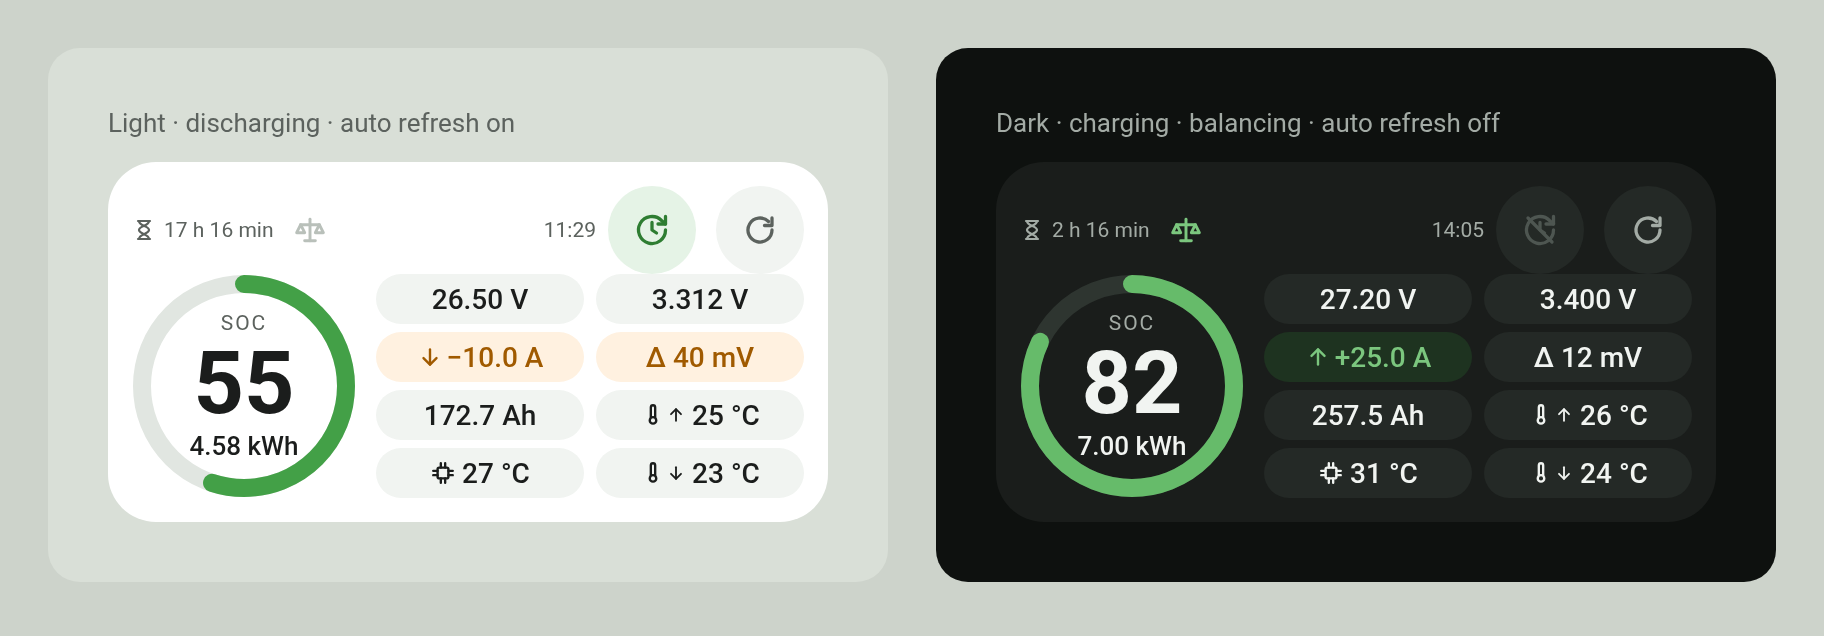
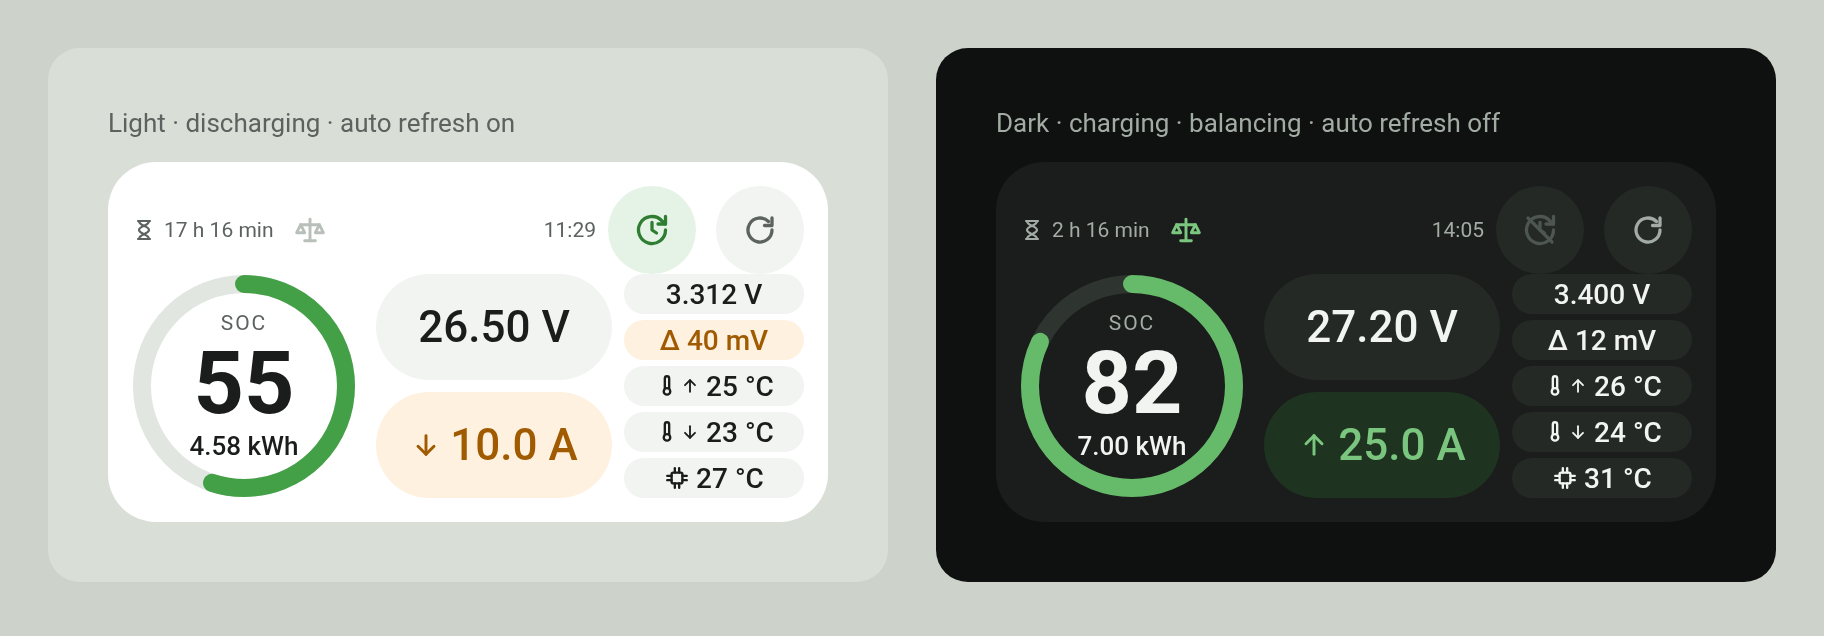
docs(design): Save v1 — order pills by importance

diff --git a/docs/design/widget-4x2.html b/docs/design/widget-4x2.html
@@ -43,10 +43,13 @@
   .ring .kwh { font-size: 13px; font-weight: 500; }
 
   .cols { flex-grow: 1; min-width: 0; display: flex; gap: 6px; }
-  .col { flex: 1 1 0; min-width: 0; display: flex; flex-direction: column; justify-content: space-between; }
-  .pill { height: 25px; box-sizing: border-box; border-radius: 12.5px; padding: 0 8px; display: flex;
+  .col { min-width: 0; display: flex; flex-direction: column; }
+  .col.main { flex: 1 1 0; gap: 6px; }                             /* pack: voltage, current */
+  .col.cells { flex: 0 0 90px; justify-content: space-between; }   /* cell details */
+  .pill { height: 20px; box-sizing: border-box; border-radius: 10px; padding: 0 8px; display: flex;
           align-items: center; justify-content: center; gap: 2px; font-size: 14px; font-weight: 500;
           white-space: nowrap; overflow: hidden; background: var(--tile); color: var(--text); }
+  .pill.big { flex: 1 1 0; height: auto; border-radius: 26.5px; padding: 0 6px; gap: 4px; font-size: 22px; }
   .pill.ok { background: var(--ok-bg); color: var(--accent); }
   .pill.warn { background: var(--warn-bg); color: var(--warn); }
   .pill.bad { background: var(--bad-bg); color: var(--bad); }
@@ -83,7 +86,6 @@
   ];
   const CAPACITY_AH = 314;
   const R = 51, CIRC = 2 * Math.PI * R;
-  const minus = (n, digits) => (n < 0 ? '−' : n > 0 ? '+' : '') + Math.abs(n).toFixed(digits);
 
   function widget(v) {
     const ah = CAPACITY_AH * v.soc / 100;
@@ -95,7 +97,7 @@
     const ring = v.soc < 15 ? 'var(--bad)' : v.soc < 25 ? 'var(--warn-ring)' : 'var(--bar)';
     const curTone = state === 'down' ? 'warn' : state === 'up' ? 'ok' : 'idle';
     const deltaTone = v.deltaMv > 40 ? 'bad' : v.deltaMv > 15 ? 'warn' : '';
-    const arrow = state === 'idle' ? '' : svg(ICON[state], 13, state === 'down' ? 'Discharging' : 'Charging', 'stroke-width="2.6"');
+    const arrow = state === 'idle' ? '' : svg(ICON[state], 16, state === 'down' ? 'Discharging' : 'Charging', 'stroke-width="2.6"');
     const c = (n) => (n < 0 ? '−' + Math.abs(n) : n) + ' °C';
 
     return `
@@ -127,17 +129,16 @@
               </div>
             </div>
             <div class="cols">
-              <div class="col">
-                <div class="pill">${v.volts.toFixed(2)} V</div>
-                <div class="pill ${curTone}">${arrow}${minus(v.amps, 1)} A</div>
-                <div class="pill">${ah.toFixed(1)} Ah</div>
-                <div class="pill" style="gap: 3px">${svg(ICON.chip, 13, 'MOSFET temperature')}${c(v.mos)}</div>
+              <div class="col main">
+                <div class="pill big">${v.volts.toFixed(2)} V</div>
+                <div class="pill big ${curTone}">${arrow}${Math.abs(v.amps).toFixed(1)} A</div>
               </div>
-              <div class="col">
+              <div class="col cells">
                 <div class="pill">${v.cellV.toFixed(3)} V</div>
                 <div class="pill ${deltaTone}">Δ ${v.deltaMv} mV</div>
                 <div class="pill" style="gap: 0">${svg(ICON.thermo, 13)}${svg(ICON.up, 10, 'Highest sensor temperature', 'stroke-width="3" style="margin-right: 3px"')}${c(v.tMax)}</div>
                 <div class="pill" style="gap: 0">${svg(ICON.thermo, 13)}${svg(ICON.down, 10, 'Lowest sensor temperature', 'stroke-width="3" style="margin-right: 3px"')}${c(v.tMin)}</div>
+                <div class="pill" style="gap: 3px">${svg(ICON.chip, 13, 'MOSFET temperature')}${c(v.mos)}</div>
               </div>
             </div>
           </div>

diff --git a/docs/design/README.md b/docs/design/README.md
@@ -13,24 +13,33 @@ latest version in the repo.
 
 ## Layout
 
+Main rule: the most important data sits on the left, and importance drops
+to the right: SOC, then pack voltage and current, then cell details.
+
 Card: 360 × 180 dp, 12 dp padding, 24 dp corner radius.
 
 ```
- ⌛ 17 h 16 min  ⚖                 11:29  (⟳auto) (↻)
- ╭───╮   ( 26.50 V )      ( 3.312 V )
- │SOC│   ( ↓ −10.0 A )    ( Δ 40 mV )
- │55 │   ( 172.7 Ah )     ( 🌡↑ 25 °C )
- ╰───╯   ( ▣ 27 °C )      ( 🌡↓ 23 °C )
+ ⌛ 17 h 16 min  ⚖               11:29  (⟳auto) (↻)
+ ╭─────╮  ╭───────────╮  ( 3.312 V )
+ │ SOC │  │  26.50 V  │  ( Δ 40 mV )
+ │ 55  │  ╰───────────╯  ( 🌡↑ 25 °C )
+ │ kWh │  ╭───────────╮  ( 🌡↓ 23 °C )
+ │     │  │ ↓ 10.0 A  │  ( ▣ 27 °C )
+ ╰─────╯  ╰───────────╯
 ```
 
 - **Top row (44 dp), full width:** time left, balancing icon, last update
   time, auto-refresh toggle, manual refresh (top-right corner).
 - **SOC ring (112 dp):** small "SOC" label, the number without "%", kWh left
   below it. The ring shows the charge level.
-- **Pills, 2 × 4, numbers only (no text labels):**
-  - middle column, pack and BMS: voltage, current, Ah left, MOSFET temperature;
-  - right column, cells: average cell voltage, cell delta, highest sensor
-    temperature, lowest sensor temperature.
+- **Middle column, pack (takes the free width, about 118 dp):** two big
+  pills, each half the column height (53 dp, 6 dp gap): pack voltage, then
+  current. The current has no sign: the arrow and the colour show the
+  direction. This leaves room for 3-digit currents ("↓ 125.5 A" fits).
+- **Right column, cells (90 dp):** five small pills, 20 dp high: average
+  cell voltage, cell delta, highest sensor temperature, lowest sensor
+  temperature, MOSFET temperature.
+- All pills show numbers only (no text labels).
 
 ## Data
 
@@ -41,9 +50,9 @@ Entity names use the ESPHome JK-BMS naming with a user prefix, for example
 |---|---|---|
 | SOC | `sensor.<p>_state_of_charge` | |
 | kWh left | computed | Ah left × total voltage / 1000 |
-| Ah left | `sensor.<p>_capacity_remaining` | |
+| Ah left | `sensor.<p>_capacity_remaining` | Not shown; input for kWh and time left |
 | Voltage | `sensor.<p>_total_voltage` | |
-| Current | `sensor.<p>_current` | The sign gives the state: < 0 discharging, > 0 charging, 0 idle (likely; check on the real BMS) |
+| Current | `sensor.<p>_current` | The sign gives the state: < 0 discharging, > 0 charging, 0 idle (likely; check on the real BMS). Shown without the sign, with an arrow |
 | Time left | computed | Discharging: Ah left / \|I\|. Charging: (full − Ah left) / I. "—" when idle |
 | MOSFET temp. | `sensor.<p>_mosfet_temperature` | |
 | Highest / lowest temp. | computed | Max / min over the available `sensor.<p>_temperature_sensor_1…N` |
@@ -75,7 +84,8 @@ These are the groups for the widget font-size settings (spec 0002):
 |---|---|
 | SOC number | 44 sp |
 | kWh under SOC | 13 sp |
-| Pill values | 14 sp |
+| Main values (voltage, current) | 22 sp |
+| Cell pill values | 14 sp |
 | Small text (SOC label, time left, update time) | 10.5 sp |
 
 ## Notes for the build
